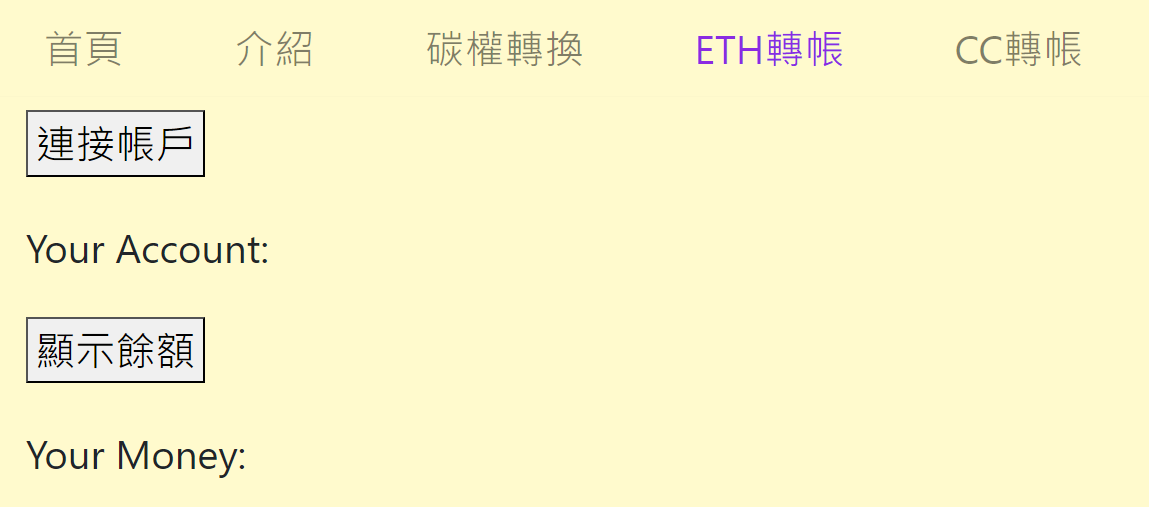
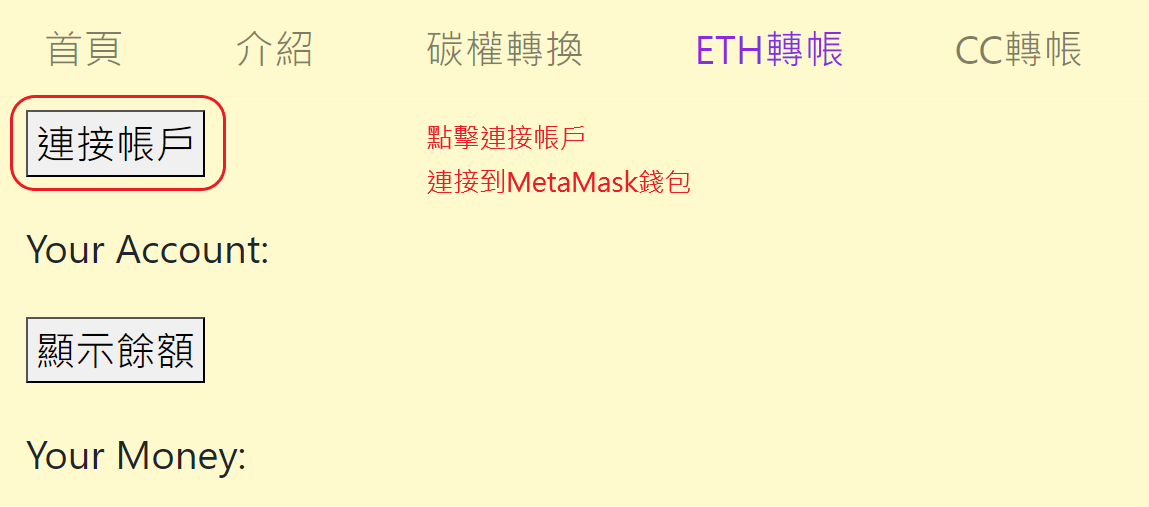
teach half

diff --git a/transferCC_v2.html b/transferCC_v2.html
@@ -94,7 +94,7 @@
         <div class="container px-4 px-lg-5">
             <div class="row gx-4 gx-lg-5 justify-content-center">
                 <div class="col-md-10 col-lg-8 col-xl-7" style="font-size: 2rem">
-                    <button onclick="connectWalletCC()">連接帳號</button>
+                    <button onclick="connectWalletCC()">連接帳戶</button>
                     <p id="account">Your Account: </p>
 
                     <button onclick="getTokenBalance()">顯示碳權代幣數量</button>
@@ -120,8 +120,46 @@
                 </div>                
             </div>
         </div>
-    </main>
-   
+    </main><hr />
+    <div class="container pt-4 pb-4">
+        <div class="row justify-content-center">
+            <div class="col-12 col-sm-12">
+                <h1 class="secondfont mb-1 font-weight-bold">使用教學</h1>
+                <p class="h5 card-text">
+                    第一次使用嗎? 請先到這裡查看安裝教學 <a href="MetaMask_teach.html" style="color: mediumblue">MetaMask_teach</a>
+                </p><br>
+                <p class="h5 card-text">
+                    Step1: 連接帳戶<br>
+                </p>
+                <p class="h5">
+                    <img src="icon/Step/S2-1.png" width="900" />
+                    <img src="icon/Step/S2-2.png" width="300" />
+                </p>
+                <p class="h5 text-center">
+                    <img src="icon/Step/S2-3.png" width="900" />
+                </p><hr />
+                <p class="h5 card-text">
+                    Step2: 填入帳號以及碳權<br>
+                </p>
+                <p class="h5">
+                    <img src="icon/Step/S2-4.png" width="650" />
+                    <img src="icon/Step/S2-5.png" width="550" />
+                </p>
+                <p class="h5">
+                    <img src="icon/Step/S2-6.png" width="600" />
+                    <img src="icon/Step/S2-7.png" width="230" />
+                    <img src="icon/Step/S2-8.png" width="350" />
+                </p><hr />
+                <p class="h5 card-text">
+                    Step3: 完成碳權交易(轉帳按鈕底下會出現success)<br>
+                </p>
+                <p class="h5">
+                    <img src="icon/Step/S2-9.png" width="300" />
+                    <img src="icon/Step/S2-10.png" width="200" />
+                </p>
+            </div>
+        </div>
+    </div>
     <!-- Footer-->
     <footer class="border-top">
         <div class="container px-4 px-lg-5">

diff --git a/transferETH_v2.html b/transferETH_v2.html
@@ -130,19 +130,35 @@
                 <h1 class="secondfont mb-1 font-weight-bold">使用教學</h1>
                 <p class="h5 card-text">
                     第一次使用嗎? 請先到這裡查看安裝教學 <a href="MetaMask_teach.html" style="color: mediumblue">MetaMask_teach</a>
-                </p>
+                </p><br>
                 <p class="h5 card-text">
-                    Step:1 <br>
-                    <img src="icon/Step/S1.png" width="3000" />
+                    Step1: 連接帳戶<br>
                 </p>
-                <p class="h6 card-text">
-                    Step2: <br>
+                <p class="h5">
+                    <img src="icon/Step/S1-1.png" width="900" />
+                    <img src="icon/Step/S1-2.png" width="300" />
                 </p>
+                <p class="h5 text-center">
+                    <img src="icon/Step/S1-3.png" width="900" />
+                </p><hr />
                 <p class="h5 card-text">
-                    Step3: <br>
+                    Step2: 填入帳號以及金額<br>
                 </p>
+                <p class="h5">
+                    <img src="icon/Step/S1-4.png" width="650" />
+                    <img src="icon/Step/S1-5.png" width="550" />
+                </p>
+                <p class="h5">
+                    <img src="icon/Step/S1-6.png" width="600" />
+                    <img src="icon/Step/S1-7.png" width="300" />
+                    <img src="icon/Step/S1-8.png" width="300" />
+                </p><hr />
                 <p class="h5 card-text">
-                    Step3: <br>
+                    Step3: 完成ETH交易(轉帳按鈕底下會出現success)<br>
+                </p>
+                <p class="h5">
+                    <img src="icon/Step/S1-9.png" width="300" />
+                    <img src="icon/Step/S1-10.png" width="200" />
                 </p>
             </div>
         </div>
